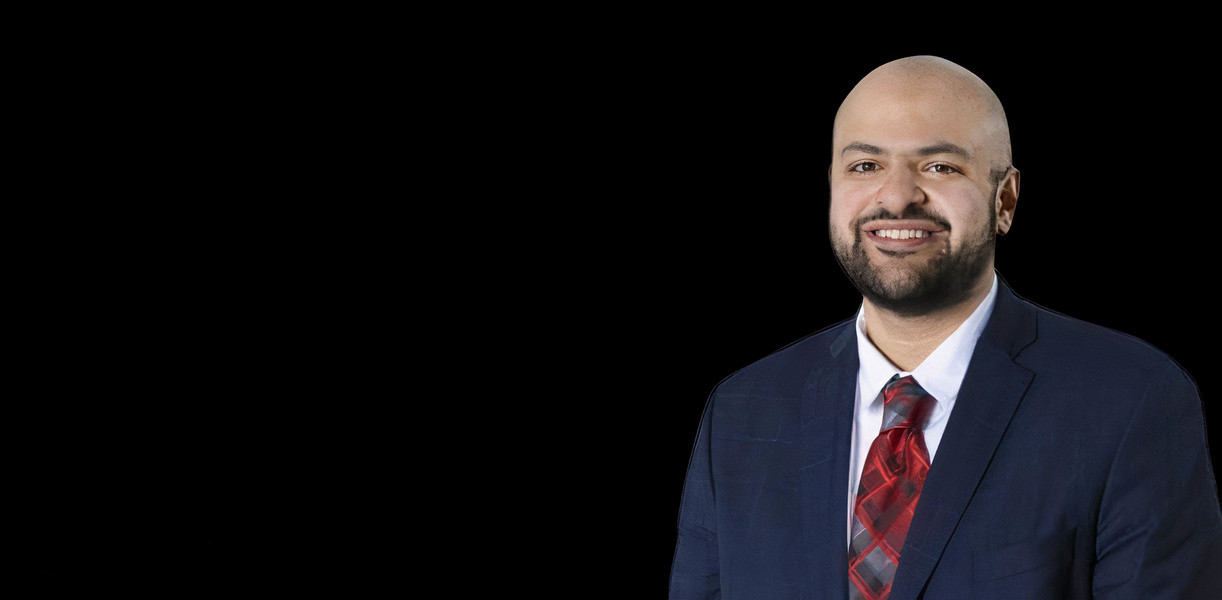
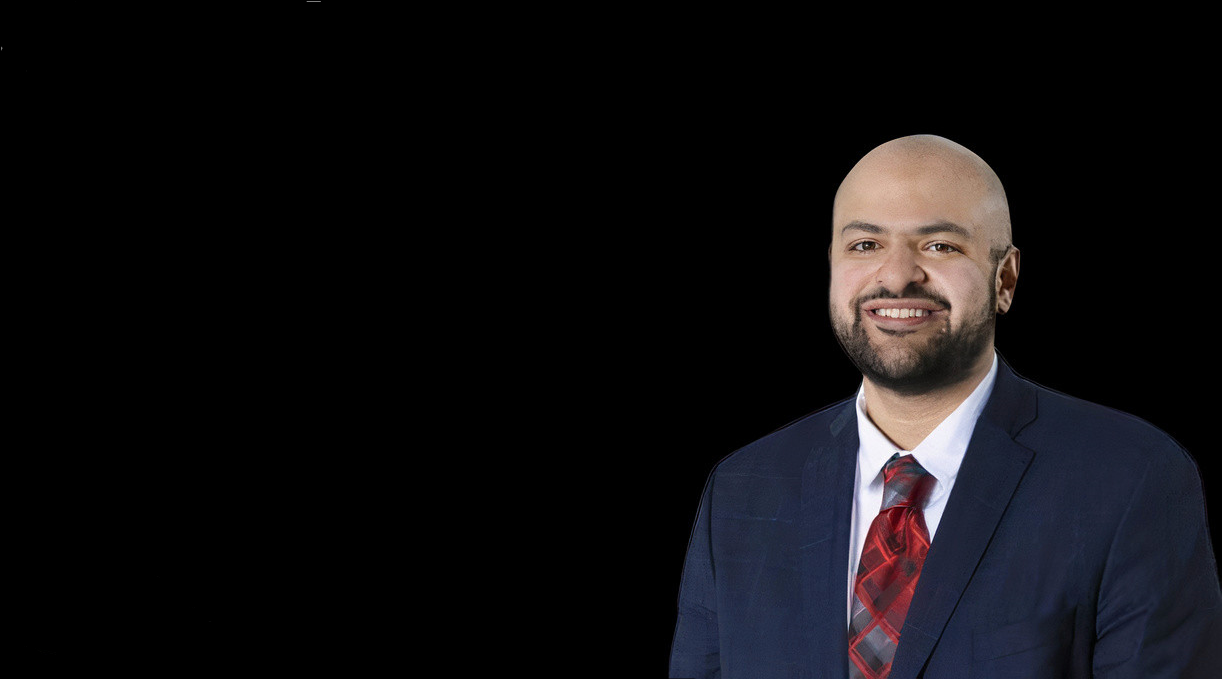
changed background, fixed service pics

diff --git a/assets/css/style.css b/assets/css/style.css
@@ -46,6 +46,7 @@ html{
     background: url("../img/jj-background.png") fixed right;
     min-height: 90vh;
     background-size: cover;
+    object-fit: contain;
     color: white;
     width: 100%;
 }
@@ -115,79 +116,54 @@ html{
     bottom: 0;
 }
 
+/* ! pics view */
 .services-pics-view{
     display: flex;
     align-items: center;
     justify-content: center;
 }
 
-.img-box{
+.pics-slide{
     width: 200px;
     height: 500px;
+    background-size: cover;
+    background-position: center center;
     transition: all 500ms;
+    object-fit: cover;
+}
+
+.pics-slide:hover{
+    width: 500px;
+    opacity: 0.8;
 }
 
 .img-box:hover{
-    width: 500px;
     transition: all .5s;
     -webkit-transition: all .5s;
     -moz-transition: all .5s;
     -ms-transition: all .5s;
     -o-transition: all .5s;
-    opacity: .8;
 }
 
 .img-box h3{
     color: black;
     text-align: center;
-    margin-top: 200px;
     opacity: 0;
+    transition: 0.2s;
+    -webkit-transition: 0.2s;
+    -moz-transition: 0.2s;
+    -ms-transition: 0.2s;
+    -o-transition: 0.2s;
 }
 
 .img-box:hover h3{
     transition-delay: 100ms;
-    transition: 1000ms;
+    transition: all 1000ms;
     opacity: 1;
-    -webkit-transition: 1000ms;
-    -moz-transition: 1000ms;
-    -ms-transition: 1000ms;
-    -o-transition: 1000ms;
 }
 
-#firstpic{
-    background: url(../img/services-pics/Court-Small.jpg);
-    background-size: cover;
-    background-position: center;
-}
-
-#secondpic{
-    background: url(../img/services-pics/Gavel-GettyImages-876701606-1024x683-1.jpg);
-    background-size: cover;
-    background-position: center;
-}
-
-#thirdpic{
-    background: url(../img/services-pics/top-lawyers-2021.jpg);
-    background-size: cover;
-    background-position: center;
-}
-
-#fourthpic{
-    background: url(../img/services-pics/Court-Small.jpg);
-    background-size: cover;
-    background-position: center;
-}
-
-#fifthpic{
-    background: url(../img/services-pics/Gavel-GettyImages-876701606-1024x683-1.jpg);
-    background-size: cover;
-    background-position: center;
-}
-
-#sixthpic{
-    background: url(../img/services-pics/top-lawyers-2021.jpg);
-    background-size: cover;
-    background-position: center;
+.img-box h3:hover{
+    opacity: 0;
 }
 
 

diff --git a/index.html b/index.html
@@ -4,6 +4,8 @@
     <meta charset="UTF-8">
     <title>Jwayyed Jwayyed</title>
 
+    <meta name="viewport" content="width=device-width, initial-scale=1">
+
     <!--  bootstrap and aos  -->
     <link rel="stylesheet" href="assets/css/bootstrap.min.css">
     <link rel="stylesheet" href="assets/css/aos.css">
@@ -88,16 +90,16 @@
                 </div>
 
                 <div class="services-pics-view">
-                    <div class="img-box" id="firstpic"><h3>Drunk Driving</h3></div>
-                    <div class="img-box" id="secondpic"><h3>Speeding Ticket</h3></div>
-                    <div class="img-box" id="thirdpic"><h3>Immigration</h3></div>
-                    <div class="img-box" id="fourthpic"><h3>Wills</h3></div>
-                    <div class="img-box" id="fifthpic"><h3>City Defense</h3></div>
-                    <div class="img-box" id="sixthpic"><h3>Business Dispute</h3></div>
+                    <div class="img-box" id="firstpic"><img src="assets/img/services-pics/Court-Small.jpg" class="pics-slide"><h3>Drunk Driving</h3></div>
+                    <div class="img-box" id="secondpic"><img src="assets\img\services-pics\Gavel-GettyImages-876701606-1024x683-1.jpg" class="pics-slide"><h3>Speeding Ticket</h3></div>
+                    <div class="img-box" id="thirdpic"><img src="assets\img\services-pics\top-lawyers-2021.jpg" class="pics-slide"><h3>Immigration</h3></div>
+                    <div class="img-box" id="fourthpic"><img src="assets/img/services-pics/Court-Small.jpg" class="pics-slide"><h3>Wills</h3></div>
+                    <div class="img-box" id="fifthpic"><img src="assets\img\services-pics\Gavel-GettyImages-876701606-1024x683-1.jpg" class="pics-slide"><h3>City Defense</h3></div>
+                    <div class="img-box" id="sixthpic"><img src="assets\img\services-pics\top-lawyers-2021.jpg" class="pics-slide"><h3>Business Dispute</h3></div>
                 </div>
             </div>
         </div>
-    </section>
+    </section>assets\img\services-pics\Gavel-GettyImages-876701606-1024x683-1.jpg
 
     <!--  bootstrap and aos js  -->
     <script src="assets/js/bootstrap.bundle.min.js"></script>
